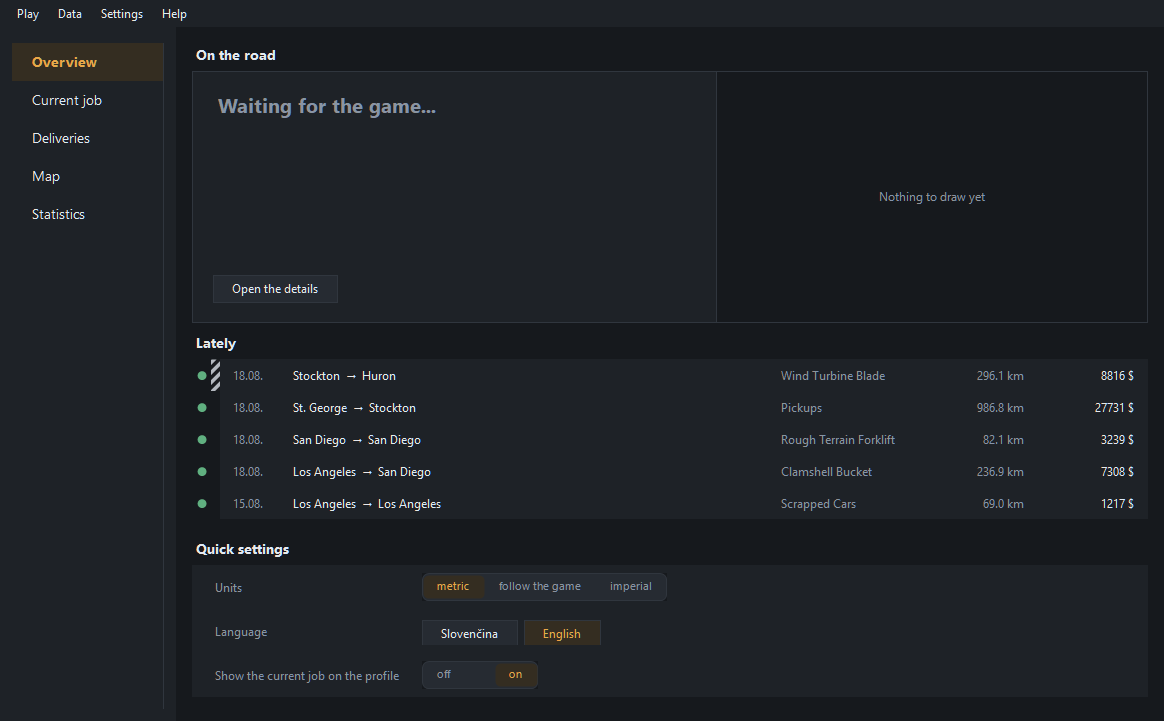
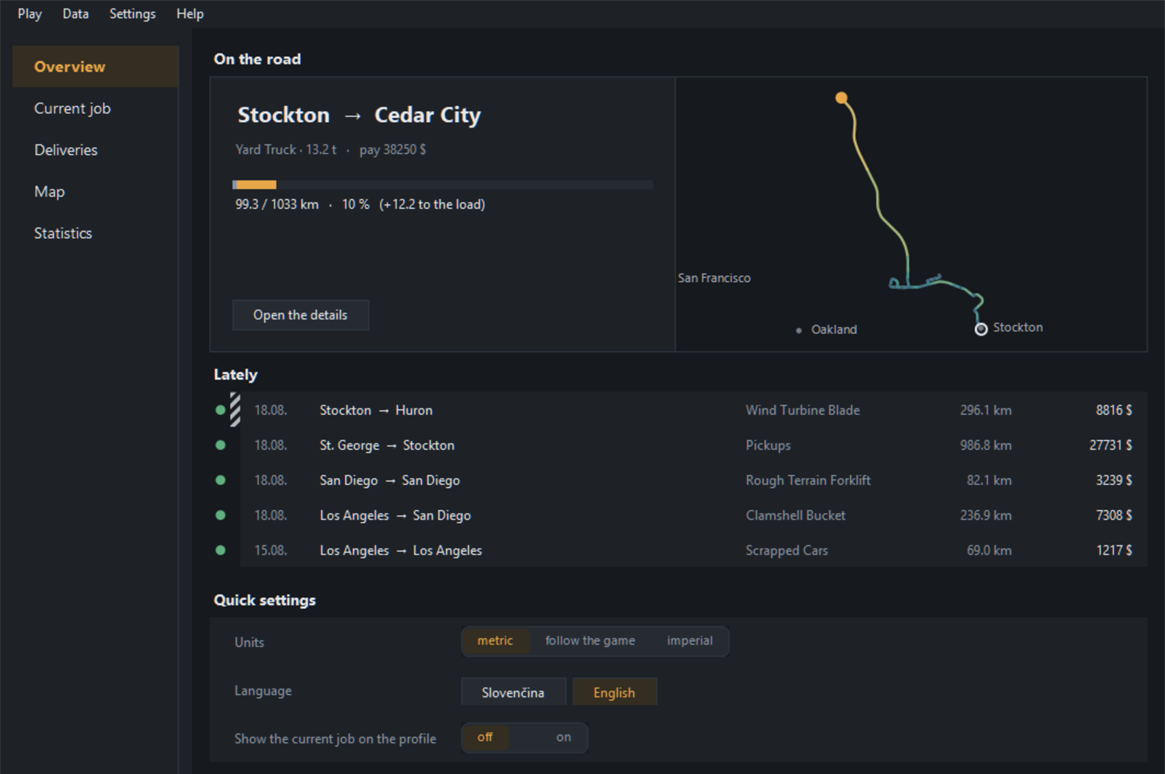
Show the two pages that need a delivery to say anything
The overview and the live page were the only two shot with the game closed, and
both said "waiting for the game" across the part they exist to show. They are
now taken during a real run from Stockton to Cedar City: the overview with the
route drawn as far as it has got and the loaded leg counted against the plan,
and the live page with the tracker narrating itself, which is the difference
between the two pages in one picture.

diff --git a/assets/README.md b/assets/README.md
@@ -4,7 +4,8 @@
 |---|---|
 | `logo.png` | Full resolution logo (700x700). Source for the application icon. |
 | `logo.psd` | Layered source file for editing the logo. |
-| `overview.png` | The page the window opens on. |
+| `overview.png` | The page the window opens on, during a delivery. |
+| `current-job.png` | The tracker's own view of the same drive, log and all. |
 | `deliveries.png` | The delivery history, used at the top of the README. |
 | `delivery-card.png` | One delivery on its own card. |
 | `delivery-route.png` | The same card with the route and timeline slid out. |
@@ -33,13 +34,14 @@ moving one around the README does not leave the name lying.
 They are captured from a real database rather than staged, which is why the
 figures in them are ordinary rather than tidy.
 
-There is no shot of the *Current job* page. It only has anything to show while a
-delivery is actually running, and one taken with the game closed says nothing but
-"waiting for the game", so it is better left out than faked. `overview.png` was
-taken the same way and shows the same empty line across its top card, which is
-kept rather than faked: the rest of the page is what it is there to show.
+`overview.png` and `current-job.png` are the two exceptions to being taken by the
+script, because they are the two pages that have nothing to show unless a delivery
+is actually running. Both were captured by hand during one, on the way from
+Stockton to Cedar City, at whatever size the window happened to be and scaled down
+to match the others. Faking them with the game closed would have got two pages
+saying "waiting for the game" across the part that matters.
 
-There is none of the route drawing itself either. It is a couple of seconds of
+There is no shot of the route drawing itself. It is a couple of seconds of
 movement, and a still frame of it is a picture of half a route, which reads as a
 bug rather than as a feature.
 

diff --git a/README.md b/README.md
@@ -140,6 +140,12 @@ tracker's log stays on *Current job* where it belongs.
 
 ![The page the window opens on](assets/overview.png)
 
+The miniature is the drive so far and nothing else: the hollow ring is where the
+load went on, the line is coloured by speed like every other route here, and the
+filled marker is where the truck is now. The bar underneath counts the loaded leg
+against the game's own planned distance, with the run out to the trailer in its
+own quieter shade at the head of it and named beside the figure.
+
 *Deliveries* is the history. Every row carries its verdict as a dot in the
 gutter on the left, and an oversize load carries hazard stripes beside it;
 hovering the gutter says both in words. Clicking a column heading sorts by it,
@@ -154,9 +160,13 @@ There is no filter by verdict: it is a dot on every row already, and on a
 history where almost everything is accepted, asking for "only the accepted ones"
 is asking for the list you are looking at.
 
-*Current job* is the same drive in the tracker's own terms: the route, the cargo, how far
-along the drive is, and a log of what has happened, each entry with its figure,
-so a fine reads `Fine: 700 $ (crash)` rather than just `Fined`.
+*Current job* is the same drive in the tracker's own terms: the route, the cargo,
+how far along the drive is, and a log of what has happened, each entry with its
+figure, so a fine reads `Fine: 700 $ (crash)` rather than just `Fined`. The log is
+the tracker narrating itself, which is what you want when the question is whether
+it is seeing the game at all, and is exactly what the overview leaves out.
+
+![The tracker's own view of the same drive](assets/current-job.png)
 
 Double clicking a delivery, or pressing Enter on it, opens its own card. It starts
 with why it got the verdict it did, then every figure the tracker kept.
